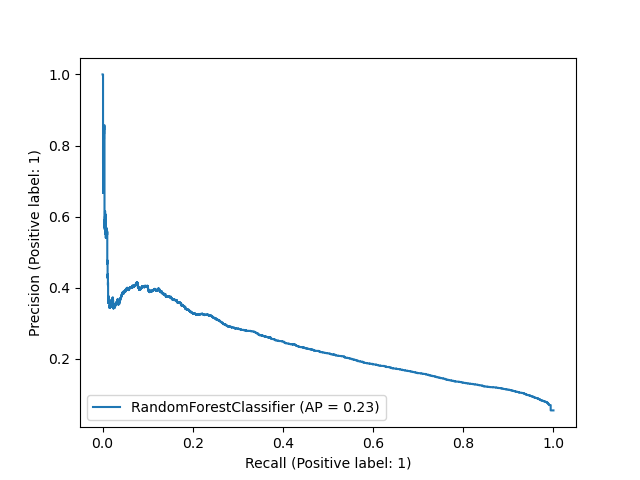
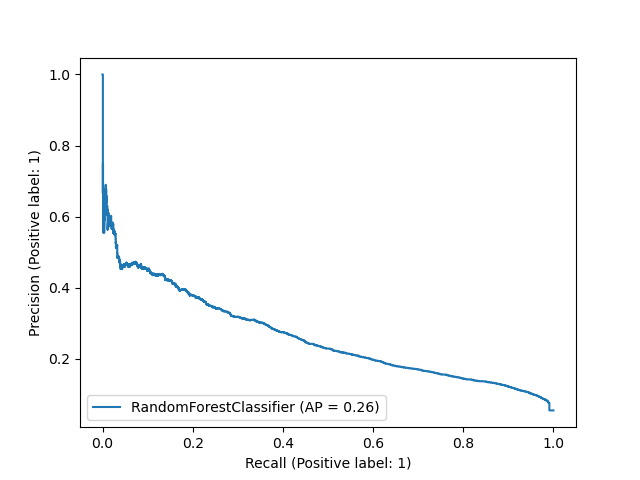
Starting final classifier training.

Changed region(s): [[0.1562, 0.25, 0.875, 0.8438], [0.5625, 0.8438, 0.5938, 0.875]]

diff --git a/_final_code/permutation_feature_importance.py b/_final_code/permutation_feature_importance.py
@@ -35,7 +35,7 @@ def main():
     ############################################################################
 
     destination = os.path.join(
-        classifier_directory, "rf_prep_02a"
+        classifier_directory, "rf_prep_01"
     )
     with open(destination, 'rb') as file:
         preprocessing, rf_clf, feature_labels, X_train, X_test, y_train, y_test \
@@ -44,47 +44,103 @@ def main():
     results = permutation_feature_importance(
         preprocessing, rf_clf, roc_auc_score, feature_labels,
         X_test, y_test, 20,
-        file_name='Permutation Feature Importance, Preprocessor 02a.pickle'
+        file_name='Permutation Feature Importance, Preprocessor 01.pickle'
     )
 
     destination = os.path.join(
         performance_data_directory, "Permutation Feature Importance, "
-                                    "Preprocessor 02a.pickle"
+                                    "Preprocessor 01.pickle"
     )
     with open(destination, 'rb') as file:
         results = pickle.load(file)
 
     fig_pf_importance(results,
                       'Fig XX: Permutation Feature Importance, Preprocessor '
-                      '02a',
-                      'Permutation Feature Importance, Preprocessor 02a')
+                      '01',
+                      'Permutation Feature Importance, Preprocessor 01')
 
     ############################################################################
 
-    destination = os.path.join(
-        classifier_directory, "rf_prep_02b"
-    )
-    with open(destination, 'rb') as file:
-        preprocessing, rf_clf, feature_labels, X_train, X_test, y_train, y_test \
-            = pickle.load(file)
+    # destination = os.path.join(
+    #     classifier_directory, "rf_prep_01_opt"
+    # )
+    # with open(destination, 'rb') as file:
+    #     preprocessing, rf_clf, feature_labels, X_train, X_test, y_train, y_test \
+    #         = pickle.load(file)
+    #
+    # results = permutation_feature_importance(
+    #     preprocessing, rf_clf, roc_auc_score, feature_labels,
+    #     X_test, y_test, 20,
+    #     file_name='Permutation Feature Importance, Preprocessor 01 '
+    #               'Optimized.pickle'
+    # )
+    #
+    # destination = os.path.join(
+    #     performance_data_directory, "Permutation Feature Importance, "
+    #                                 "Preprocessor 01 Optimized.pickle"
+    # )
+    # with open(destination, 'rb') as file:
+    #     results = pickle.load(file)
+    #
+    # fig_pf_importance(results,
+    #                   'Fig XX: Permutation Feature Importance, Preprocessor '
+    #                   '01 Optimized',
+    #                   'Permutation Feature Importance, Preprocessor 01 '
+    #                   'Optimized')
 
-    results = permutation_feature_importance(
-        preprocessing, rf_clf, roc_auc_score, feature_labels,
-        X_test, y_test, 20,
-        file_name='Permutation Feature Importance, Preprocessor 02b.pickle'
-    )
+    ############################################################################
 
-    destination = os.path.join(
-        performance_data_directory, "Permutation Feature Importance, "
-                                    "Preprocessor 02b.pickle"
-    )
-    with open(destination, 'rb') as file:
-        results = pickle.load(file)
+    # destination = os.path.join(
+    #     classifier_directory, "rf_prep_02a"
+    # )
+    # with open(destination, 'rb') as file:
+    #     preprocessing, rf_clf, feature_labels, X_train, X_test, y_train, y_test \
+    #         = pickle.load(file)
+    #
+    # results = permutation_feature_importance(
+    #     preprocessing, rf_clf, roc_auc_score, feature_labels,
+    #     X_test, y_test, 20,
+    #     file_name='Permutation Feature Importance, Preprocessor 02a.pickle'
+    # )
+    #
+    # destination = os.path.join(
+    #     performance_data_directory, "Permutation Feature Importance, "
+    #                                 "Preprocessor 02a.pickle"
+    # )
+    # with open(destination, 'rb') as file:
+    #     results = pickle.load(file)
+    #
+    # fig_pf_importance(results,
+    #                   'Fig XX: Permutation Feature Importance, Preprocessor '
+    #                   '02a',
+    #                   'Permutation Feature Importance, Preprocessor 02a')
 
-    fig_pf_importance(results,
-                      'Fig XX: Permutation Feature Importance, Preprocessor '
-                      '02b',
-                      'Permutation Feature Importance, Preprocessor 02b')
+    ############################################################################
+
+    # destination = os.path.join(
+    #     classifier_directory, "rf_prep_02b"
+    # )
+    # with open(destination, 'rb') as file:
+    #     preprocessing, rf_clf, feature_labels, X_train, X_test, y_train, y_test \
+    #         = pickle.load(file)
+    #
+    # results = permutation_feature_importance(
+    #     preprocessing, rf_clf, roc_auc_score, feature_labels,
+    #     X_test, y_test, 20,
+    #     file_name='Permutation Feature Importance, Preprocessor 02b.pickle'
+    # )
+    #
+    # destination = os.path.join(
+    #     performance_data_directory, "Permutation Feature Importance, "
+    #                                 "Preprocessor 02b.pickle"
+    # )
+    # with open(destination, 'rb') as file:
+    #     results = pickle.load(file)
+    #
+    # fig_pf_importance(results,
+    #                   'Fig XX: Permutation Feature Importance, Preprocessor '
+    #                   '02b',
+    #                   'Permutation Feature Importance, Preprocessor 02b')
 
     ############################################################################
 

diff --git a/_final_code/preprocessors.py b/_final_code/preprocessors.py
@@ -1,8 +1,7 @@
+import category_encoders as ce
 import pandas as pd
 from sklearn.base import BaseEstimator, TransformerMixin
 from sklearn.compose import ColumnTransformer
-from sklearn.decomposition import PCA, TruncatedSVD
-from sklearn.ensemble import RandomTreesEmbedding
 from sklearn.impute import SimpleImputer
 from sklearn.pipeline import Pipeline
 from sklearn.preprocessing import OneHotEncoder, OrdinalEncoder
@@ -56,13 +55,9 @@ def create_preprocessor_01():
             ('binary',
              OneHotEncoder(drop='if_binary', sparse=False),
              binary_category_cols),
-            ('complete',
-             OneHotEncoder(sparse=False),
-             complete_category_cols),
-            ('inc_cat',
-             OneHotEncoder(drop=[-9] * len(incomplete_category_cols),
-                           sparse=False),
-             incomplete_category_cols),
+            ('helmert',
+             ce.HelmertEncoder(return_df=True),
+             complete_category_cols + incomplete_category_cols),
             ('inc_ord',
              inc_ordinal_pipe,
              incomplete_ordinal_cols),
@@ -127,13 +122,9 @@ def create_preprocessor_01_opt():
             ('binary',
              OneHotEncoder(drop='if_binary', sparse=False),
              binary_category_cols),
-            ('complete',
-             OneHotEncoder(sparse=False),
-             complete_category_cols),
-            ('inc_cat',
-             OneHotEncoder(drop=[-9] * len(incomplete_category_cols),
-                           sparse=False),
-             incomplete_category_cols),
+            ('helmert',
+             ce.HelmertEncoder(return_df=True),
+             complete_category_cols + incomplete_category_cols),
             ('inc_ord',
              inc_ordinal_pipe,
              incomplete_ordinal_cols),
@@ -196,13 +187,9 @@ def create_preprocessor_02a():
             ('binary',
              OneHotEncoder(drop='if_binary', sparse=False),
              binary_category_cols),
-            ('complete',
-             OneHotEncoder(sparse=False),
-             complete_category_cols),
-            ('inc_cat',
-             OneHotEncoder(drop=[-9] * len(incomplete_category_cols),
-                           sparse=False),
-             incomplete_category_cols),
+            ('helmert',
+             ce.HelmertEncoder(return_df=True),
+             complete_category_cols + incomplete_category_cols),
             ('inc_ord',
              inc_ordinal_pipe,
              incomplete_ordinal_cols),
@@ -265,13 +252,9 @@ def create_preprocessor_02b():
             ('binary',
              OneHotEncoder(drop='if_binary', sparse=False),
              binary_category_cols),
-            ('complete',
-             OneHotEncoder(sparse=False),
-             complete_category_cols),
-            ('inc_cat',
-             OneHotEncoder(drop=[-9] * len(incomplete_category_cols),
-                           sparse=False),
-             incomplete_category_cols),
+            ('helmert',
+             ce.HelmertEncoder(return_df=True),
+             complete_category_cols + incomplete_category_cols),
             ('inc_ord',
              inc_ordinal_pipe,
              incomplete_ordinal_cols),

diff --git a/_final_code/random_forest.py b/_final_code/random_forest.py
@@ -26,24 +26,24 @@ def main():
     start_time = pd.Timestamp.now()
     print(f"Started at {start_time}")
 
-    # preprocessor, feature_labels = preprocessors.create_preprocessor_01()
-    # downsampled_random_forest(preprocessor,
-    #                           feature_labels,
-    #                           'rf_prep_01',
-    #                           'Random Forest, Preprocessor 01')
-
-    preprocessor, feature_labels = preprocessors.create_preprocessor_01_opt()
+    preprocessor, feature_labels = preprocessors.create_preprocessor_01()
     downsampled_random_forest(preprocessor,
                               feature_labels,
-                              'rf_prep_01_opt',
-                              'Random Forest, Preprocessor 01 Optimized')
+                              'rf_prep_01',
+                              'Random Forest, Preprocessor 01')
 
+    # preprocessor, feature_labels = preprocessors.create_preprocessor_01_opt()
+    # downsampled_random_forest(preprocessor,
+    #                           feature_labels,
+    #                           'rf_prep_01_opt',
+    #                           'Random Forest, Preprocessor 01 Optimized')
+    #
     # preprocessor, feature_labels = preprocessors.create_preprocessor_02a()
     # downsampled_random_forest(preprocessor,
     #                           feature_labels,
     #                           'rf_prep_02a',
     #                           'Random Forest, Preprocessor 02a')
-
+    #
     # preprocessor, feature_labels = preprocessors.create_preprocessor_02b()
     # downsampled_random_forest(preprocessor,
     #                           feature_labels,
